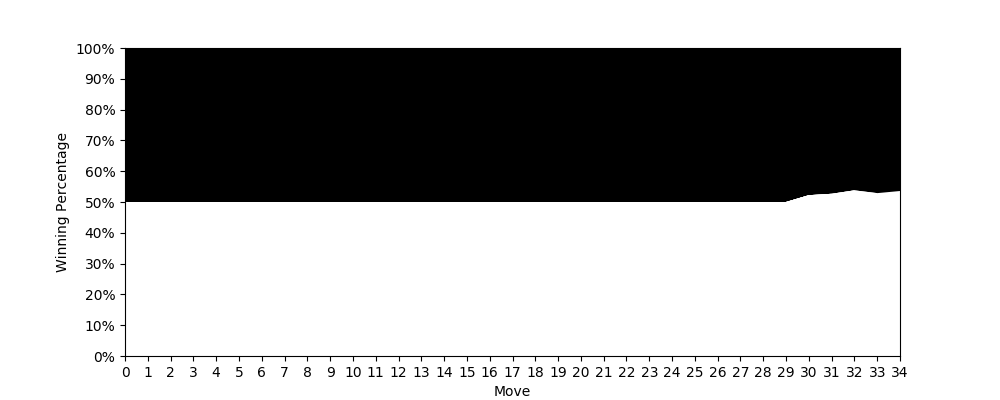
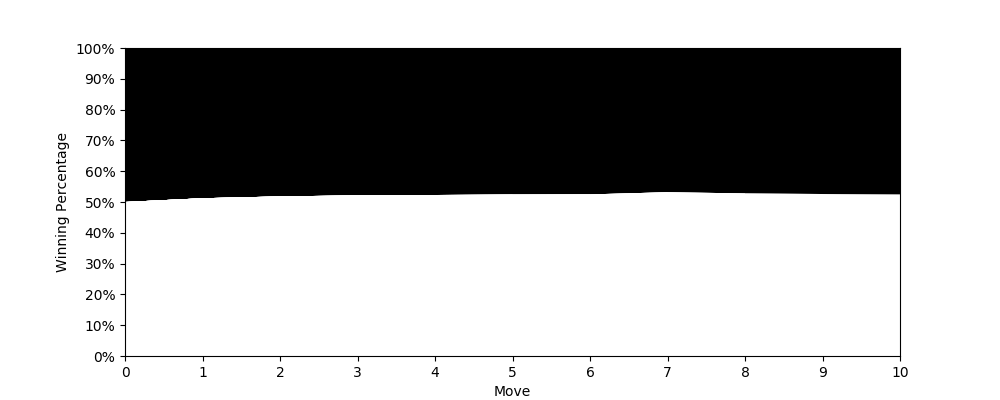
added variational play

diff --git a/GUI.py b/GUI.py
@@ -66,6 +66,8 @@ def statistics_update():
 
 if __name__ == '__main__':
 	self_play = True
+	opening_book = True
+	variation = True
 
 	master = Tk()
 	master.geometry("800x800+0+0")
@@ -73,12 +75,12 @@ if __name__ == '__main__':
 	board = Image.open('board_planetary_grey.png')
 	
 	
-	R = Image.open('rook_white.png')
-	N = Image.open('knight_white.png')
-	B = Image.open('bishop_white.png')
-	K = Image.open('king_white.png')
-	Q = Image.open('queen_white.png')
-	P = Image.open('pawn_white.png')
+	R = Image.open('rook_white_2.png')
+	N = Image.open('knight_white_2.png')
+	B = Image.open('bishop_white_2.png')
+	K = Image.open('king_white_2.png')
+	Q = Image.open('queen_white_2.png')
+	P = Image.open('pawn_white_2.png')
 	r = Image.open('rook_black.png')
 	n = Image.open('knight_black.png')
 	b = Image.open('bishop_black.png')
@@ -103,7 +105,7 @@ if __name__ == '__main__':
 	full_board = Label(master, image=tkimage)
 	full_board.pack()
 	full_board.bind('<ButtonPress-1>', func=mouse_click)
-	game = Game()
+	game = Game(opening_book, variation)
 	first, second = None, None
 	second = ()
 	board_update()
@@ -120,13 +122,12 @@ if __name__ == '__main__':
 	ax.set_ylabel('Winning Percentage')
 	ax.set_facecolor("black")
 
-	#plt.plot(list(range(len(utilities))), utilities)
 	plt.ylim(0, 1)
 	plt.xlim(0, 1)
 	plt.xticks(list(range(len(utilities))))
 	plt.yticks([0.0, 0.1, 0.2, 0.3, 0.4, 0.5, 0.6, 0.7, 0.8, 0.9, 1.0], labels=[f'{str(x)}%' for x in range(0, 101, 10)])
 	plt.savefig('tmp.png')
-	#plt.style.use('dark_background')
+
 	tkimage_s = ImageTk.PhotoImage(Image.open('tmp.png'))
 	label = Label(statistics, image=tkimage_s)
 	label.pack()

diff --git a/kiasa.py b/kiasa.py
@@ -4,11 +4,14 @@ from random import shuffle
 from copy import deepcopy as copy
 from board import *
 from time import time, sleep
+from math import exp
 
 
 class Kiasa:
-	def __init__(self, depth=4, offset=2):
+	def __init__(self, opening_book=True, variation=True, depth=3, offset=3):
 		self.chess = board()
+		self.opening_book = opening_book
+		self.variation = variation
 		self.min_depth = depth
 		self.max_depth = depth + offset
 		self.count = 0
@@ -17,16 +20,18 @@ class Kiasa:
 	def __call__(self):
 		with opening.open_reader("data/performance.bin") as book:
 			moves = [entry.move for entry in book.find_all(self.chess.board)]
-			if moves:
-				#shuffle(moves)
+			if moves and self.opening_book:
+				if self.variation:
+					shuffle(moves)
+				sigmoid = lambda x: 1/(1+exp(-x*0.3))
 				move = moves[0]
 				self.chess(move)
-				sleep(3)
+				sleep(1)
 				print(f"""
 OPENING MODE
 MOVE: {move}
 """)
-				return move, 0
+				return move, sigmoid(self.chess.util)
 		t = time()
 		moves = self.chess.legal_moves()
 		if len(list(moves)) == 1:

diff --git a/game.py b/game.py
@@ -3,9 +3,9 @@ from kiasa import *
 
 
 class Game:
-	def __init__(self):
+	def __init__(self, opening_book=True, variation=True):
 		self.chess = Board()
-		self.kiasa = Kiasa()
+		self.kiasa = Kiasa(opening_book=opening_book, variation=variation)
 
 	def __call__(self, move):
 		if self.chess.board.is_game_over():
